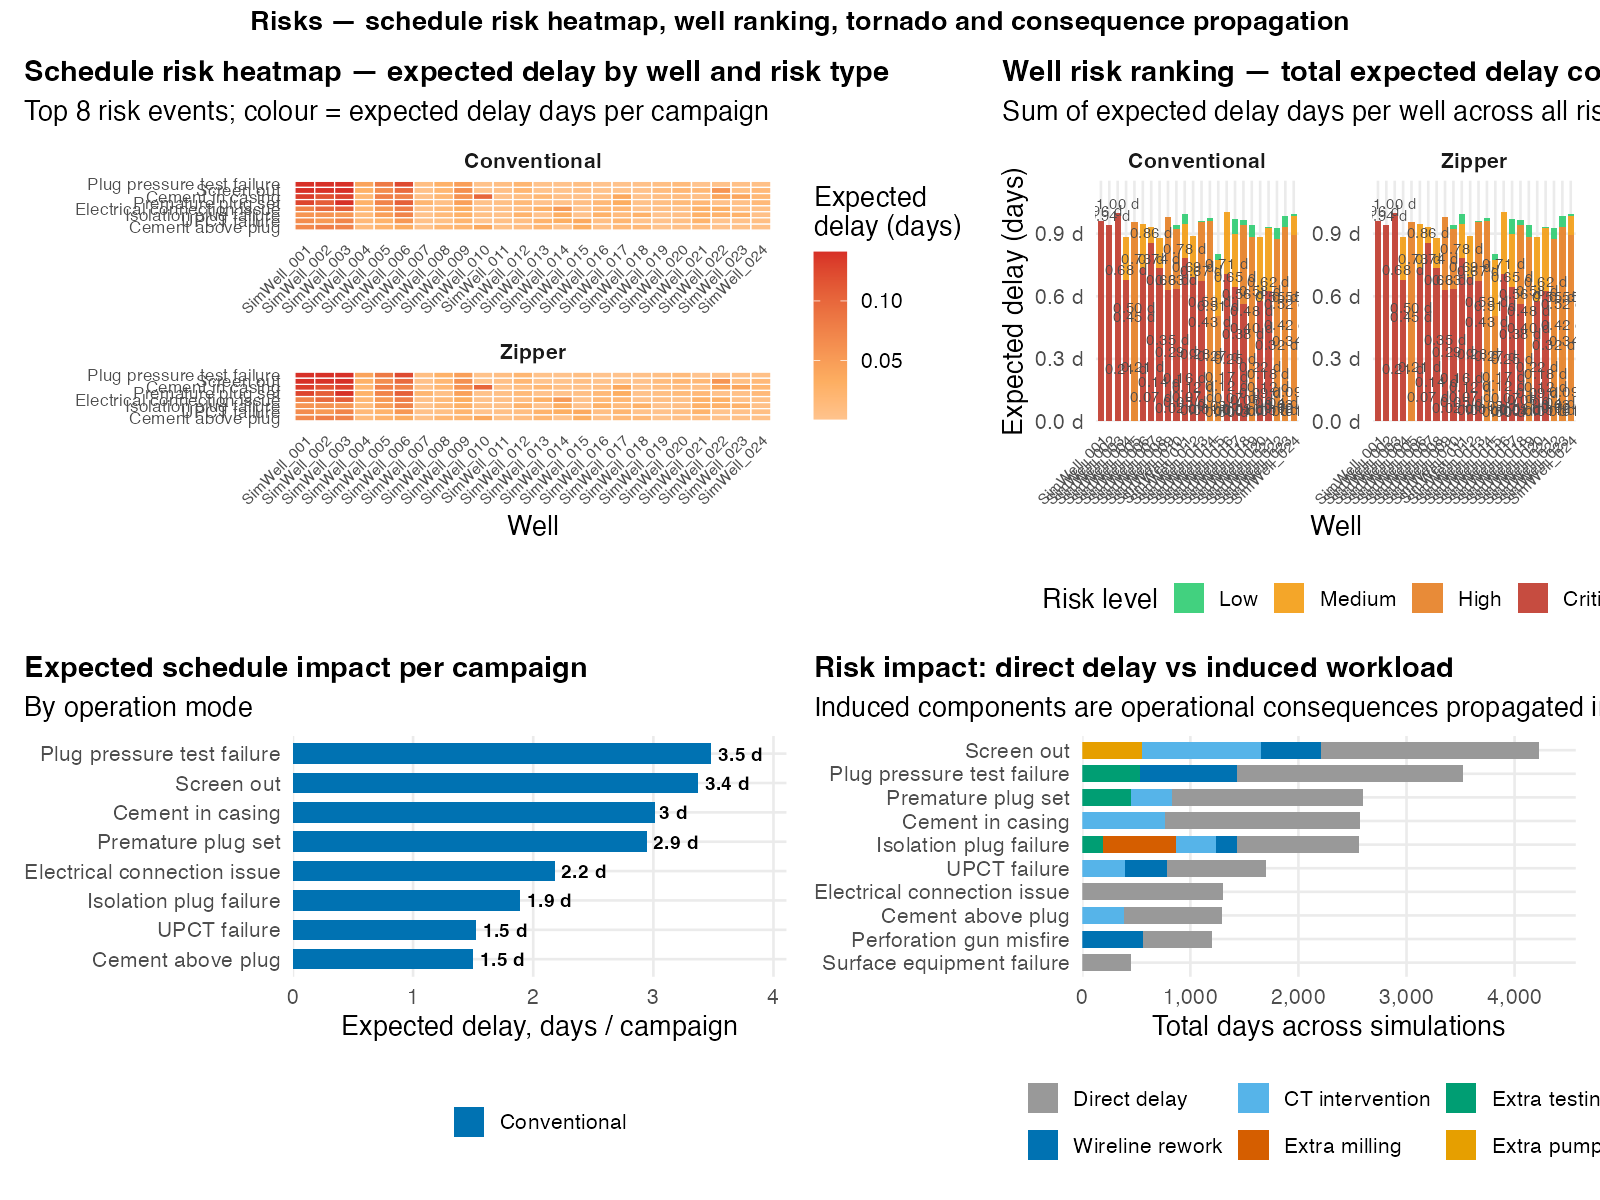
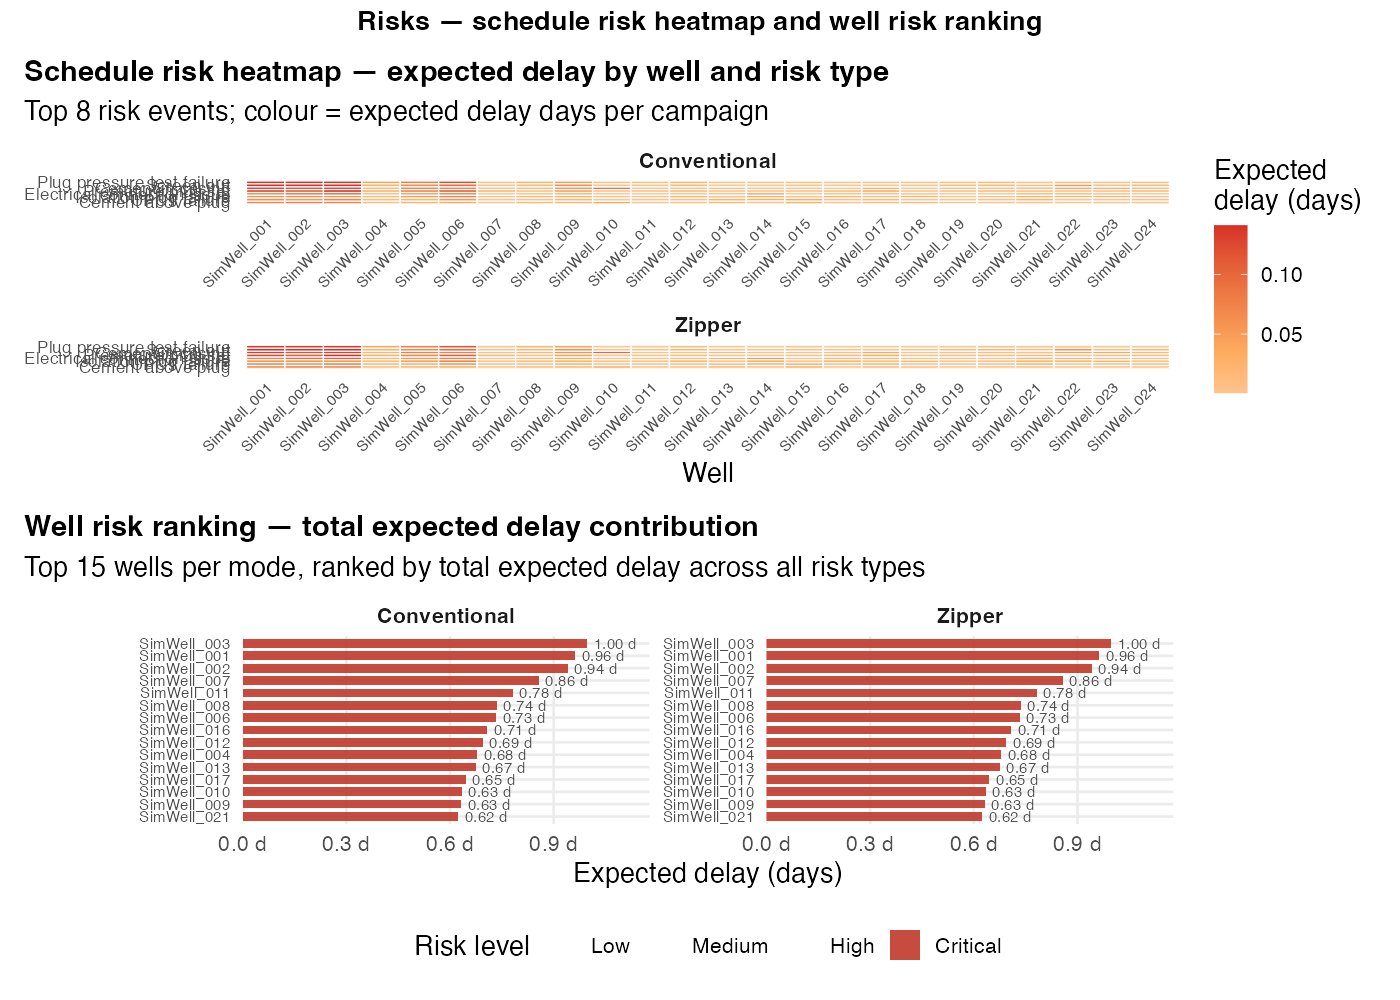
Simplify Risks screenshot, add Risk Editor screenshot, fix stale generators
03_risks.png: drop the tornado/consequence panels (4 dense plots crammed
into one image) -- keep just the heatmap + well risk ranking, larger and
more readable.

generate_screenshots.R / generate_screenshots_tabs.R were both missing
source("R/risk_library_engine.R"), left over from the risk-library
integration work -- they crashed outright on build_risk_table(). Fixed
in both; confirmed via byte-identical 04/05 output that this was a pure
crash-fix, not a behavior change (risk_library defaults to NULL).

Added 12_risk_editor.png, captured live via shinytest2 and cropped to
the content area, showing the Parameters/Risk-rows grids, their
upload/download/reset controls, and the cell-level validation
highlighting in action.

02_decision_support.png also regenerated as a side effect of the same
script run -- minor label/numeric drift reflecting current code.

diff --git a/README.md b/README.md
@@ -157,7 +157,7 @@ tradeoffs, operational risk, resource bottlenecks, and cost/schedule optimizatio
 the full tab-by-tab set (Workflow reference, Historical Learning, Sensitivity, Bayesian
 Update, What-If, Risk Heatmap), see `docs/images/screenshots/`.*
 
-*Last refreshed: 2026-06-16 (commit `a805beb`). UI labels and panels can drift out of sync
+*Last refreshed: 2026-06-21 (commit `6c67d08`). UI labels and panels can drift out of sync
 with these images between refreshes — if something below doesn't match the running app,
 trust the app and regenerate via `Rscript generate_screenshots.R` and
 `Rscript generate_screenshots_tabs.R`.*
@@ -168,7 +168,7 @@ trust the app and regenerate via `Rscript generate_screenshots.R` and
 ### Decision support — narrative, recommendation, robustness and scenario library
 ![Decision support tab](docs/images/screenshots/02_decision_support.png)
 
-### Risks — schedule risk heatmap, well ranking, tornado and consequence propagation
+### Risks — schedule risk heatmap and well risk ranking
 ![Risks tab](docs/images/screenshots/03_risks.png)
 
 ### Resources — utilization and deployment
@@ -176,6 +176,9 @@ trust the app and regenerate via `Rscript generate_screenshots.R` and
 
 ### Optimiser — constraint cascade and Pareto search
 ![Optimiser tab](docs/images/screenshots/05_optimiser.png)
+
+### Risk Editor — in-app editable grids, no CSV authoring required
+![Risk Editor tab](docs/images/screenshots/12_risk_editor.png)
 
 ---
 